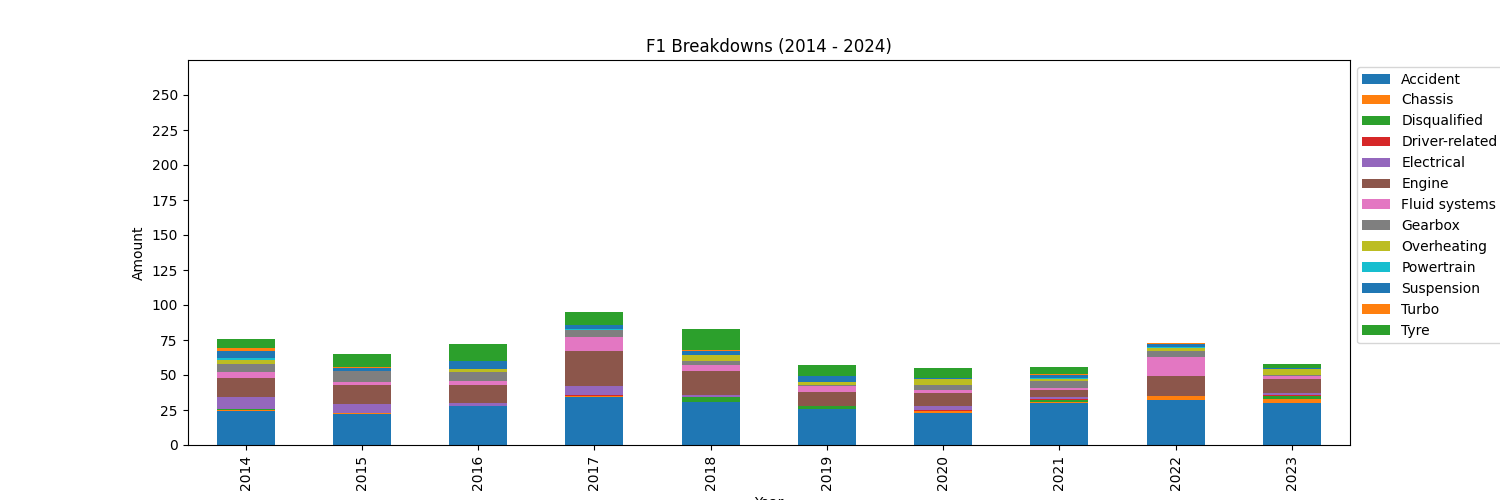
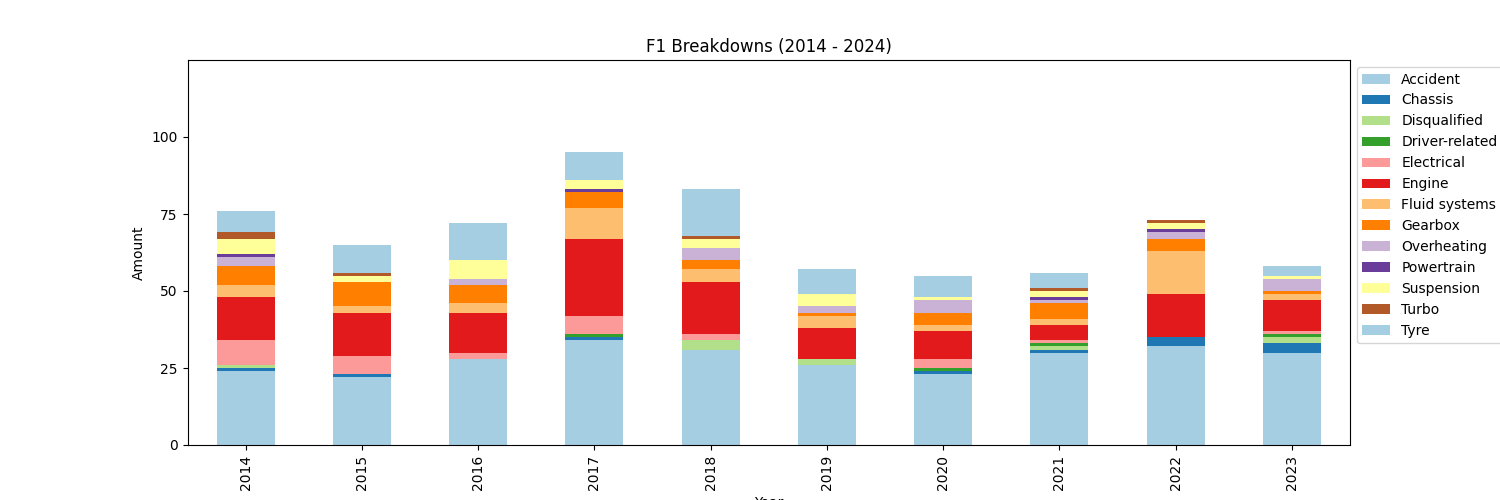
Circuit Stats

diff --git a/main.py b/main.py
@@ -7,6 +7,8 @@ import os
 # check if data is already in data folder else create it
 path = os.getcwd() + r'\data'
 plotpath = os.getcwd() + r'\plots'
+circuitpath = os.getcwd() + r'\plots\circuits'
+
 if not os.path.exists(os.path.join(path,r'turbo_era.csv')):
     getdata(1980, 1990).to_csv(os.path.join(path,r'turbo_era.csv'), index=False)
     getdata(2014, 2024).to_csv(os.path.join(path,r'hybrid_era.csv'), index=False)
@@ -18,21 +20,43 @@ for file in os.listdir(path):
         df_data = df_data[df_data['status'] != 'Finished']
         
         # group data by date and status
-        df_data = df_data.groupby(['year', 'status']).size().reset_index(name='counts')
+        df_data_ds = df_data.groupby(['year', 'status']).size().reset_index(name='counts')
         
         # pivot data
-        df_data = df_data.pivot(index='year', columns='status', values='counts')
+        df_data_ds = df_data_ds.pivot(index='year', columns='status', values='counts')
         
-        # plot data
-        df_data.plot(kind='bar', stacked=True, figsize=(15, 5))
+        # plot data with 16 different colors
+        df_data_ds.plot(kind='bar', stacked=True, figsize=(15, 5), color=sns.color_palette('Paired', 32))
         if file == 'turbo_era.csv':
             plt.title('F1 Breakdowns (1980 - 1990)')
+            plt.ylim(0, 300)
+            plt.yticks(range(0, 300, 25))
         else:
             plt.title('F1 Breakdowns (2014 - 2024)')
+            plt.ylim(0, 125)
+            plt.yticks(range(0, 125, 25))
+
         plt.xlabel('Year')
         plt.ylabel('Amount')
-        plt.ylim(0, 275)
-        plt.yticks(range(0, 275, 25))
         plt.legend(bbox_to_anchor=(0.9999, 1))
         plt.savefig(os.path.join(plotpath, file[:-4] + '.png'))
+
+        # group data by circuit and status and year
+        df_data_ds = df_data.groupby(['year', 'circuit', 'status']).size().reset_index(name='counts')
+
+        # pivot data for each circuit
+        for circuit in df_data_ds['circuit'].unique():
+            df_data_ds_circuit = df_data_ds[df_data_ds['circuit'] == circuit]
+            df_data_ds_circuit = df_data_ds_circuit.pivot(index='year', columns='status', values='counts')
+            
+            # plot data
+            df_data_ds_circuit.plot(kind='bar', stacked=True, figsize=(15, 5), color=sns.color_palette('Paired'))
+            plt.title('F1 Breakdowns (' + str(circuit) + ')')
+            plt.xlabel('Year')
+            plt.ylabel('Amount')
+            plt.ylim(0, 25)
+            plt.yticks(range(0, 24, 2))
+            plt.legend(bbox_to_anchor=(0.9999, 1))
+            plt.savefig(os.path.join(circuitpath, file[:-4] + '_' + str(circuit) + '.png'))
+            plt.close()
         
